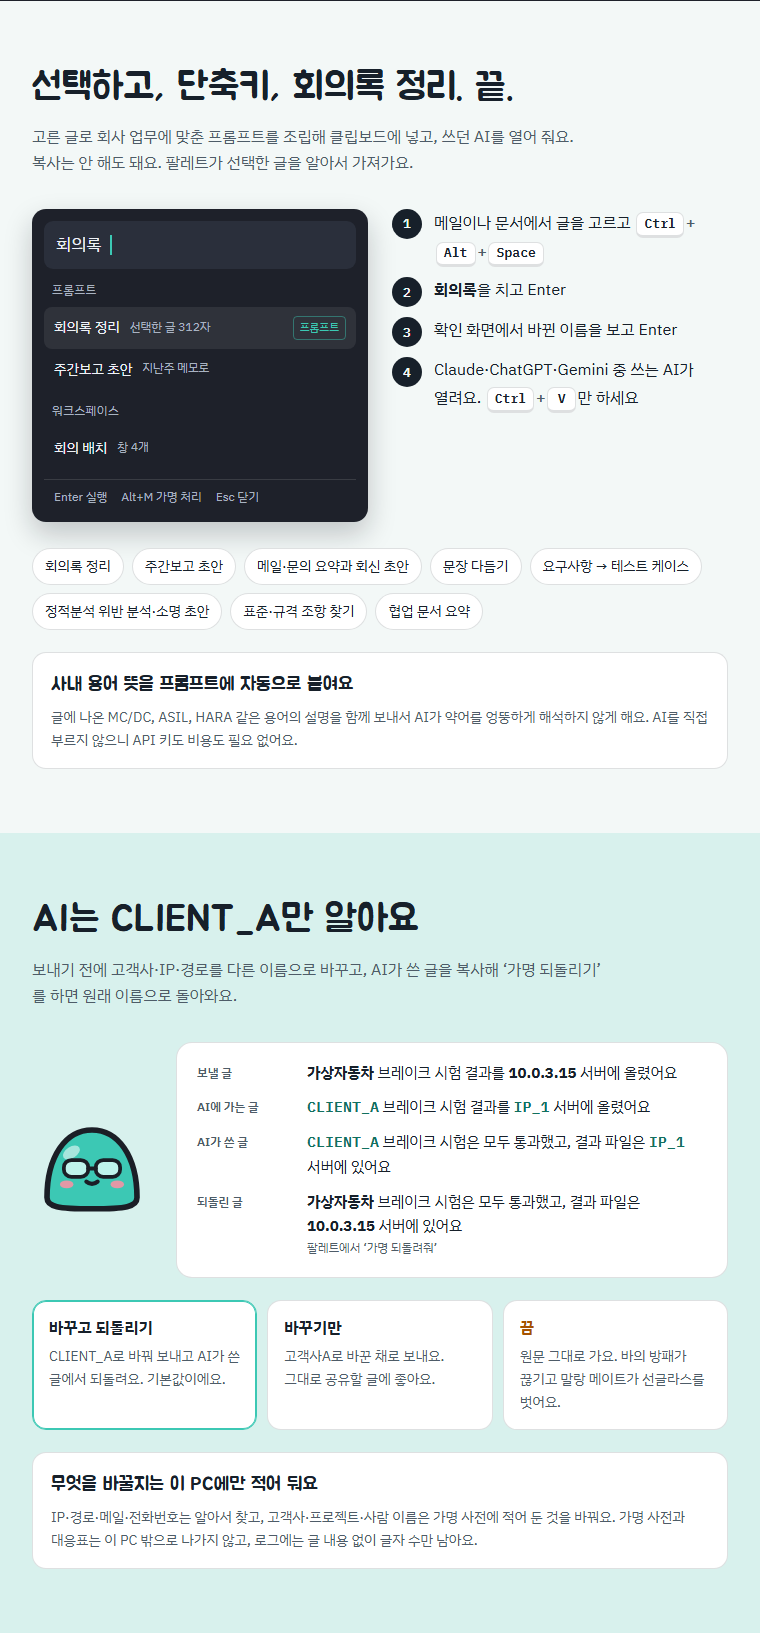
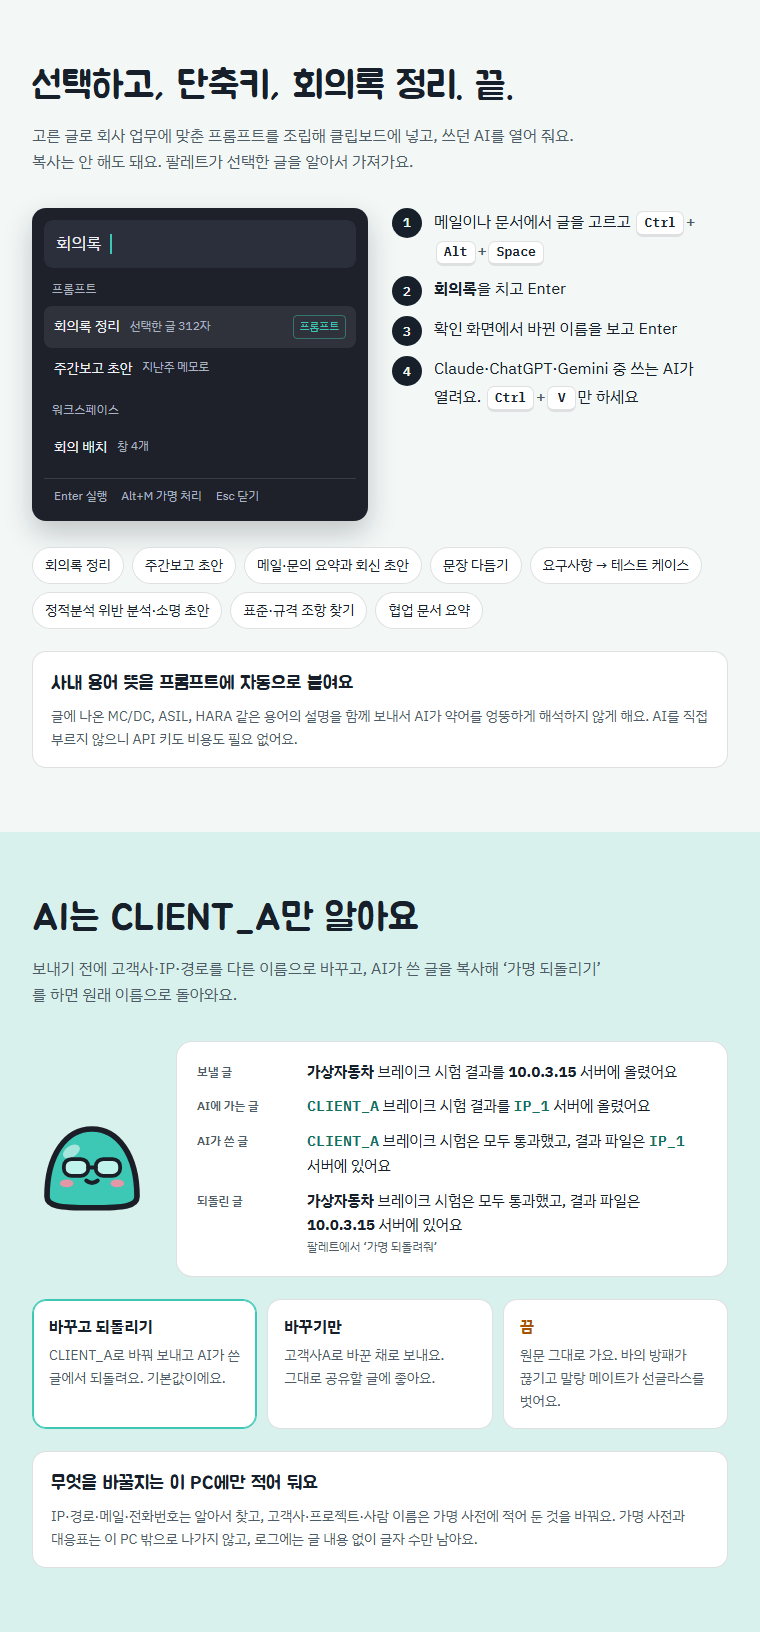
docs: 공모전 게시글에서 시범 사용자 실측 칸을 빼고 게시판용 이미지를 다시 뽑는다
- '써 본 동료들의 시간이 이만큼 줄었어요' 칸을 빼고, 다섯째 이미지를 05-how.png(AI를 이렇게, 설치)로 바꾼다
- 둘째 탭의 구성표·게시 전 확인·본문 텍스트 초안에서 실측 숫자를 빼고, 업무 개선 효과는 손으로 하던 일이 단축키 한 번으로 바뀌는 장면으로 보인다
- export.cjs: 칸 경계의 소수 픽셀 줄(두 칸 색이 섞인 줄)을 어느 장에도 넣지 않는다
- 결정 기록: 게시 전까지 동료 시범 사용이 어려워 재지 않은 숫자는 쓰지 않는다(사용자 결정)

diff --git a/docs/promo/sure-mate-promo.html b/docs/promo/sure-mate-promo.html
@@ -268,14 +268,7 @@ p { margin: 0; }
 .pet-card .tag { font-size: 11px; font-weight: 600; color: var(--sun); }
 .pet-note { margin-top: 18px; font-size: var(--fs-small); color: var(--night-mute); }
 
-/* 8. 실측 자리 */
-.slots { display: grid; grid-template-columns: repeat(3, minmax(0, 1fr)); gap: 12px; }
-.slot { border: 2px dashed var(--line); border-radius: 16px; padding: 18px 16px; display: grid; gap: 6px; align-content: start; }
-.slot b { font-family: var(--display); font-size: 28px; font-weight: 400; font-variant-numeric: tabular-nums; }
-.slot span { font-size: var(--fs-small); color: var(--mute); }
-.slot .note { color: var(--warn); }
-
-/* 9. AI를 어떻게 */
+/* 8. AI를 어떻게 */
 .how { display: grid; gap: 12px; }
 .how-row { display: grid; grid-template-columns: 132px minmax(0, 1fr); gap: 16px; padding: 16px 0; border-top: 1px solid var(--line); }
 .how-row:first-child { border-top: 0; padding-top: 0; }
@@ -354,7 +347,7 @@ p { margin: 0; }
 @media (max-width: 640px) {
   .hero-grid { grid-template-columns: minmax(0, 1fr); }
   .edge { justify-self: end; width: 150px; }
-  .fit-list, .split, .two, .together, .modes, .slots, .steps, .offers, .files { grid-template-columns: minmax(0, 1fr); }
+  .fit-list, .split, .two, .together, .modes, .steps, .offers, .files { grid-template-columns: minmax(0, 1fr); }
   .desk, .hide { grid-template-columns: minmax(0, 1fr); }
   .facts { grid-template-columns: minmax(0, 1fr); }
   .pet-grid { grid-template-columns: repeat(2, minmax(0, 1fr)); }
@@ -636,23 +629,8 @@ p { margin: 0; }
     </div>
   </section>
 
-  <!-- 8. 실측 -->
-  <section class="band" data-slice="05-effect">
-    <div class="wrap">
-      <div class="band-head">
-        <h2>써 본 동료들의 시간이 이만큼 줄었어요</h2>
-        <p>시범 사용자들이 같은 일을 Sure-Mate 없이 한 번, 있이 한 번 해서 잰 시간이에요.</p>
-      </div>
-      <div class="slots">
-        <div class="slot"><span class="note">실측 자리</span><b data-fill="meeting">__분 → __분</b><span>회의 메모를 정리해 AI에 붙이기</span></div>
-        <div class="slot"><span class="note">실측 자리</span><b data-fill="workspace">__초 → __초</b><span>회의 화면에서 보고서 화면으로 바꾸기</span></div>
-        <div class="slot"><span class="note">실측 자리</span><b data-fill="wiki">__초 → __초</b><span>모르는 사내 용어 뜻 찾기</span></div>
-      </div>
-    </div>
-  </section>
-
-  <!-- 9. AI를 어떻게 -->
-  <section class="band">
+  <!-- 8. AI를 어떻게 -->
+  <section class="band" data-slice="05-how">
     <div class="wrap">
       <div class="band-head">
         <h2>AI를 이렇게 써요</h2>
@@ -758,7 +736,7 @@ p { margin: 0; }
           <thead><tr><th>필수 항목·심사 기준</th><th>맡는 칸</th><th>보여 줄 것</th></tr></thead>
           <tbody>
             <tr><td>어떤 업무에</td><td>이런 순간, 하루에도 몇 번씩</td><td>창 배치, AI에 붙여넣기, 용어 찾기, 창 감추기</td></tr>
-            <tr><td>무엇이 좋아졌는지 · 업무 개선 효과</td><td>실측 칸, 시연 영상</td><td>시범 사용자 전후 시간 3개(실측값만)</td></tr>
+            <tr><td>무엇이 좋아졌는지 · 업무 개선 효과</td><td>이런 순간, 기능 칸, 시연 영상</td><td>손으로 하던 일이 단축키 한 번으로 바뀌는 장면</td></tr>
             <tr><td>AI를 어떻게 · 업무 적합성</td><td>AI를 이렇게 써요, 가명 처리</td><td>프롬프트 조립, 용어 자동 첨부, 보내기 전 가명 처리</td></tr>
             <tr><td>사용법</td><td>설치는 1분, 첫 실행 안내</td><td>SmartScreen 화면 캡처, 세 화면 안내, 30초 따라 해 보기</td></tr>
             <tr><td>확산 가치</td><td>한눈에 보는 Sure-Mate, 함께 출품</td><td>관리자 권한 없이 설치, 프롬프트·용어 팩을 파일로 나눠 쓰기</td></tr>
@@ -770,13 +748,13 @@ p { margin: 0; }
 
     <section>
       <h2>게시판에 올릴 이미지</h2>
-      <p>게시글 시안을 760px 폭으로 여섯 장에 나눠 뽑았어요. 순서대로 올리고, 이미지 사이에 아래 본문 텍스트를 나눠 넣으면 돼요. 실측 숫자를 채우면 다시 뽑아요(docs/promo/README.md).</p>
+      <p>게시글 시안을 760px 폭으로 여섯 장에 나눠 뽑았어요. 순서대로 올리고, 이미지 사이에 아래 본문 텍스트를 나눠 넣으면 돼요. 설치 파일 크기·메모리 숫자를 고치면 다시 뽑아요(docs/promo/README.md).</p>
       <div class="files">
         <div><b>01-intro.png</b><span>첫 화면, 이런 순간</span></div>
         <div><b>02-workspace.png</b><span>창 배치, 화면 감추기</span></div>
         <div><b>03-ai.png</b><span>프롬프트 팔레트, 가명 처리</span></div>
         <div><b>04-wiki-mate.png</b><span>용어 카드·상용구, 말랑 메이트</span></div>
-        <div><b>05-effect.png</b><span>실측, AI를 이렇게, 설치</span></div>
+        <div><b>05-how.png</b><span>AI를 이렇게, 설치</span></div>
         <div><b>06-info.png</b><span>한눈에 보기, 궁금한 것, 함께 출품</span></div>
       </div>
     </section>
@@ -835,8 +813,7 @@ p { margin: 0; }
     <section>
       <h2>게시 전 확인</h2>
       <ul class="checks">
-        <li><span>실측 자리 세 칸을 시범 사용자 측정값으로 채우고 이미지 다시 뽑기<small>측정하지 않은 숫자는 넣지 않아요</small></span></li>
-        <li><span>설치 파일 크기·메모리·CPU를 최종본으로 고치기<small>지금 숫자는 11/10 설치본 측정값이에요</small></span></li>
+        <li><span>설치 파일 크기·메모리·CPU를 최종본으로 고치고 이미지 다시 뽑기<small>지금 숫자는 11/10 설치본 측정값이에요</small></span></li>
         <li><span>첨부 파일 용량 확인<small>설치 파일이 게시판에 올라가는지, 안 되면 사내 공유 폴더 링크</small></span></li>
         <li><span>SHA-256 해시를 본문에 적기<small>받은 파일이 바뀌지 않았는지 동료가 확인할 수 있어요</small></span></li>
         <li><span>익명 점검<small>세 글 같은 닉네임, 캡처·영상·파일 속성에 실명·사번·메일 주소 없음</small></span></li>
@@ -849,7 +826,7 @@ p { margin: 0; }
       <p>이미지 위아래에 붙이는 글이에요. 이미지가 안 보여도 필수 항목 네 가지가 다 읽히게 했어요.</p>
       <div class="post-text">[어떤 업무에] 창 배치 전환, 회의록·보고서를 AI로 정리하기, 사내 용어 찾기, 결함 리포트 같은 양식 붙이기, 자리에 누가 왔을 때 화면 가리기처럼 하루에도 여러 번 반복하는 일에 써요.
 
-[무엇이 좋아졌는지] 시범 사용자 __명이 같은 일을 전후로 재 보니 회의록 정리 __분 → __분, 화면 전환 __초 → __초, 용어 찾기 __초 → __초였어요.
+[무엇이 좋아졌는지] 회의가 끝날 때마다 창을 다시 늘어놓던 일은 단축키 한 번으로, AI에 붙여넣기 전에 고객사 이름을 손으로 지우던 일은 자동 가명 처리로, 사내 위키를 열어 약어를 찾던 일은 글을 고르고 Ctrl+Alt+W 한 번으로 바뀌었어요.
 
 [AI를 어떻게] 앱이 AI를 직접 부르지 않고, 우리 업무에 맞춘 프롬프트 8종에 선택한 글과 사내 용어 설명을 채워 클립보드에 넣어요. 보내기 전에 고객사·IP·경로를 다른 이름(CLIENT_A)으로 바꾸고, AI가 쓴 글은 ‘가명 되돌리기’로 원래 이름으로 돌려요. 회사가 허용한 AI라면 무엇이든 쓸 수 있어요.
 
@@ -860,7 +837,7 @@ p { margin: 0; }
       <h2>이어서 만들 수 있는 것</h2>
       <p>원하는 것을 말씀해 주시면 바로 이어서 할게요.</p>
       <div class="offers">
-        <div><b>최종 설치 파일과 실측</b><span>게시할 코드로 설치 파일을 만들고, 설치본으로 메모리·CPU를 다시 재서 숫자와 해시를 고쳐요</span></div>
+        <div><b>최종 설치 파일</b><span>게시할 코드로 설치 파일을 만들고, 설치본으로 메모리·CPU를 다시 재서 숫자와 해시를 고쳐요</span></div>
         <div><b>시연 자동 재생</b><span>스모크 시험처럼 사람 손 타이밍으로 영상 B의 장면을 매번 똑같이 재생해, 녹화를 몇 번이고 다시 찍을 수 있게 해요</span></div>
         <div><b>실제 화면 캡처</b><span>가짜 자료로 앱 화면을 찍어 시안의 그림 자리를 실제 화면으로 바꿔요</span></div>
       </div>

diff --git a/docs/decisions.md b/docs/decisions.md
@@ -268,5 +268,6 @@
 - 2026-11-12 · 확인 화면에서 끔이 아닌 모드의 프롬프트를 처음 표시하면 가명 처리 칩 아래(찾은 항목·대상·미리 보기 자리)를 덮는 첫 안내를 한 번 표시한다. 내용은 설정 가명 처리 탭과 같은 실제 예시(`MaskingExample`, compact)와 '고객사·사람 이름은 가명 사전에 적은 것만 바뀌어요' 안내, [알겠어요]다. [알겠어요]로 닫거나 안내가 보이는 채로 복사하면 팔레트가 `prompt:masking-tip-seen`(dismissed·copied)을 보내고 main이 설정 `tips.maskingExampleSeen`(기본 false)을 true로 저장해 다시 표시하지 않는다. 직접 입력이면 입력칸을 덮지 않도록 숨기고, 안내가 보이는 동안 Tab 순서는 출처 → 가명 처리 → [알겠어요]이며 덮인 영역은 inert로 둔다. 다른 초점의 Enter는 그대로 복사한다 — 가명 처리 설명을 첫 실행에서 확인하지 않고, 가명 처리가 실제로 발생하는 순간에 표시한다(사용자 확인). 설정 가명 처리 탭은 이미 같은 예시를 표시한다
 - 2026-11-12 · 말랑 메이트 조종을 끝낼 때 돌아갈 창도 팔레트와 같이 설정 창(첫 실행 안내·따라 해 보기 포함)을 사용자 창으로 간주한다(`controlReturnTarget`의 `isReturnable`). 펫·바·펼침 창은 그대로 기억하지 않는다 — 같은 날 팔레트 규칙만 바뀌어, 설정 창에서 시작한 조종은 Esc 뒤 그 창으로 포커스를 돌려주지 못했다
 - 2026-11-13 · 말랑 메이트가 일하는 중간에 쉬어 가기 말을 건넨다(설정 창 말랑 메이트 탭 '반응과 말풍선' 구역의 '쉬어 가기 말 걸기' 기본 켬, '말 거는 간격' 30·45·60·90분 중 기본 60분이며 켜 둔 동안만 표시). 펫이 보이고 설정이 켜져 있는 동안 런타임이 1분에 한 번 확인하고, 판단은 `shared/pet/pet-nudge.ts`(순수 모듈)가 담당한다. 시스템 입력 없는 시간(`powerMonitor.getSystemIdleTime`)이 5분 미만인 시간만 일한 시간으로 집계하고, 입력 없는 시간 또는 확인 사이 공백(절전·펫 숨김)이 10분 이상이면 휴식으로 간주하여 처음부터 다시 집계한다. 간격은 차례마다 ±15% 범위에서 무작위로 결정하고, 간격에 도달해도 마지막 입력이 1분 이상 전이면 사용자가 입력할 때까지 대기한다. 펫이 숨었거나(전체 화면 포함) 말풍선이 꺼져 있거나 펫이 들림·조종·메뉴·공중 이동·다른 말풍선 표시 중이면 이번 말을 생략하고 3분 뒤 1회만 다시 확인하며(말풍선 꺼짐은 다시 확인하지 않음), 그때도 표시할 수 없으면 이번 차례를 폐기하고 처음부터 집계한다. 문구 6개는 `PET_NUDGE_LINES`에 정의하고 직전 문구를 제외하여 무작위로 선택하며, 기존 말풍선(4초, 누르면 닫힘)과 기존 폴짝 움직임으로 표시하고 졸던 펫은 깨워서 표시한다. `pet.nudge` 로그에는 문구 번호와 생략 사유만 포함한다 — 2026-11-13 사용자 의견('업무 중간중간 물 마시기·기지개 같은 말을 건네면 좋겠다')을 반영한다. 컨트롤러에 반복 타이머를 추가하지 않고 숨긴 펫에는 타이머가 없다는 규칙을 유지하며, 생략한 말을 누적하여 나중에 한꺼번에 표시하지 않는다
+- 2026-11-13 · 공모전 게시글(docs/promo)에서 시범 사용자 실측 칸('써 본 동료들의 시간이 이만큼 줄었어요')을 뺀다. 업무 개선 효과는 '이런 순간'·기능 칸·시연 영상에서 손으로 하던 일이 단축키 한 번으로 바뀌는 장면으로 보이고, 재지 않은 숫자는 쓰지 않는다. 설계 §1 성공 기준의 '게시글의 절감 효과는 시범 사용자에게서 잰 실제 숫자다'를 대신한다 — 사용자 결정(2026-11-13): 게시 전까지 동료 시범 사용이 어렵다
 - 대기 · 한글 IME Enter 처리 방식 — 회사 PC 점검표 3번 기록 후 결정
 - 대기 · 가져오기 중 대상 앱이 복사한 선택 글이 Win+V 기록에 남는 문제 — 11/9 확인 후 설계 v4에서 결정

diff --git a/docs/promo/README.md b/docs/promo/README.md
@@ -12,14 +12,14 @@
 | `02-workspace.png` | 창 배치, 화면 감추기 |
 | `03-ai.png` | 프롬프트 팔레트, 가명 처리 |
 | `04-wiki-mate.png` | 용어 카드·상용구, 말랑 메이트 |
-| `05-effect.png` | 실측, AI를 이렇게, 설치 |
+| `05-how.png` | AI를 이렇게, 설치 |
 | `06-info.png` | 한눈에 보기, 궁금한 것, 함께 출품, 마무리 |
 
 `@2x`가 붙은 파일은 같은 그림을 두 배 해상도(1520px)로 뽑은 것이다. 게시판 편집기에서 이미지 너비를 760으로 지정할 수 있으면 `@2x`를 쓰면 배율 125·150% 화면에서도 글자가 흐리지 않다. 너비를 지정할 수 없으면 `@2x` 없는 파일을 쓴다.
 
 ## 다시 뽑기
 
-실측 숫자(`data-fill`이 붙은 `__분 → __분` 세 칸), 설치 파일 크기·메모리 숫자를 고친 뒤 Windows에서 다시 뽑는다. 저장소 루트에서, `ELECTRON_RUN_AS_NODE`를 지운 셸로 실행한다(Claude Code에서 띄운 셸에는 이 변수가 들어 있다).
+설치 파일 크기·메모리 숫자(한눈에 보는 Sure-Mate 표, 첫 화면의 첨부 파일 크기)를 고친 뒤 Windows에서 다시 뽑는다. 시범 사용자 실측 칸은 두지 않는다(2026-11-13, 게시 전까지 동료 시범 사용이 어렵다). 저장소 루트에서, `ELECTRON_RUN_AS_NODE`를 지운 셸로 실행한다(Claude Code에서 띄운 셸에는 이 변수가 들어 있다).
 
 ```powershell
 Remove-Item Env:ELECTRON_RUN_AS_NODE -ErrorAction SilentlyContinue
